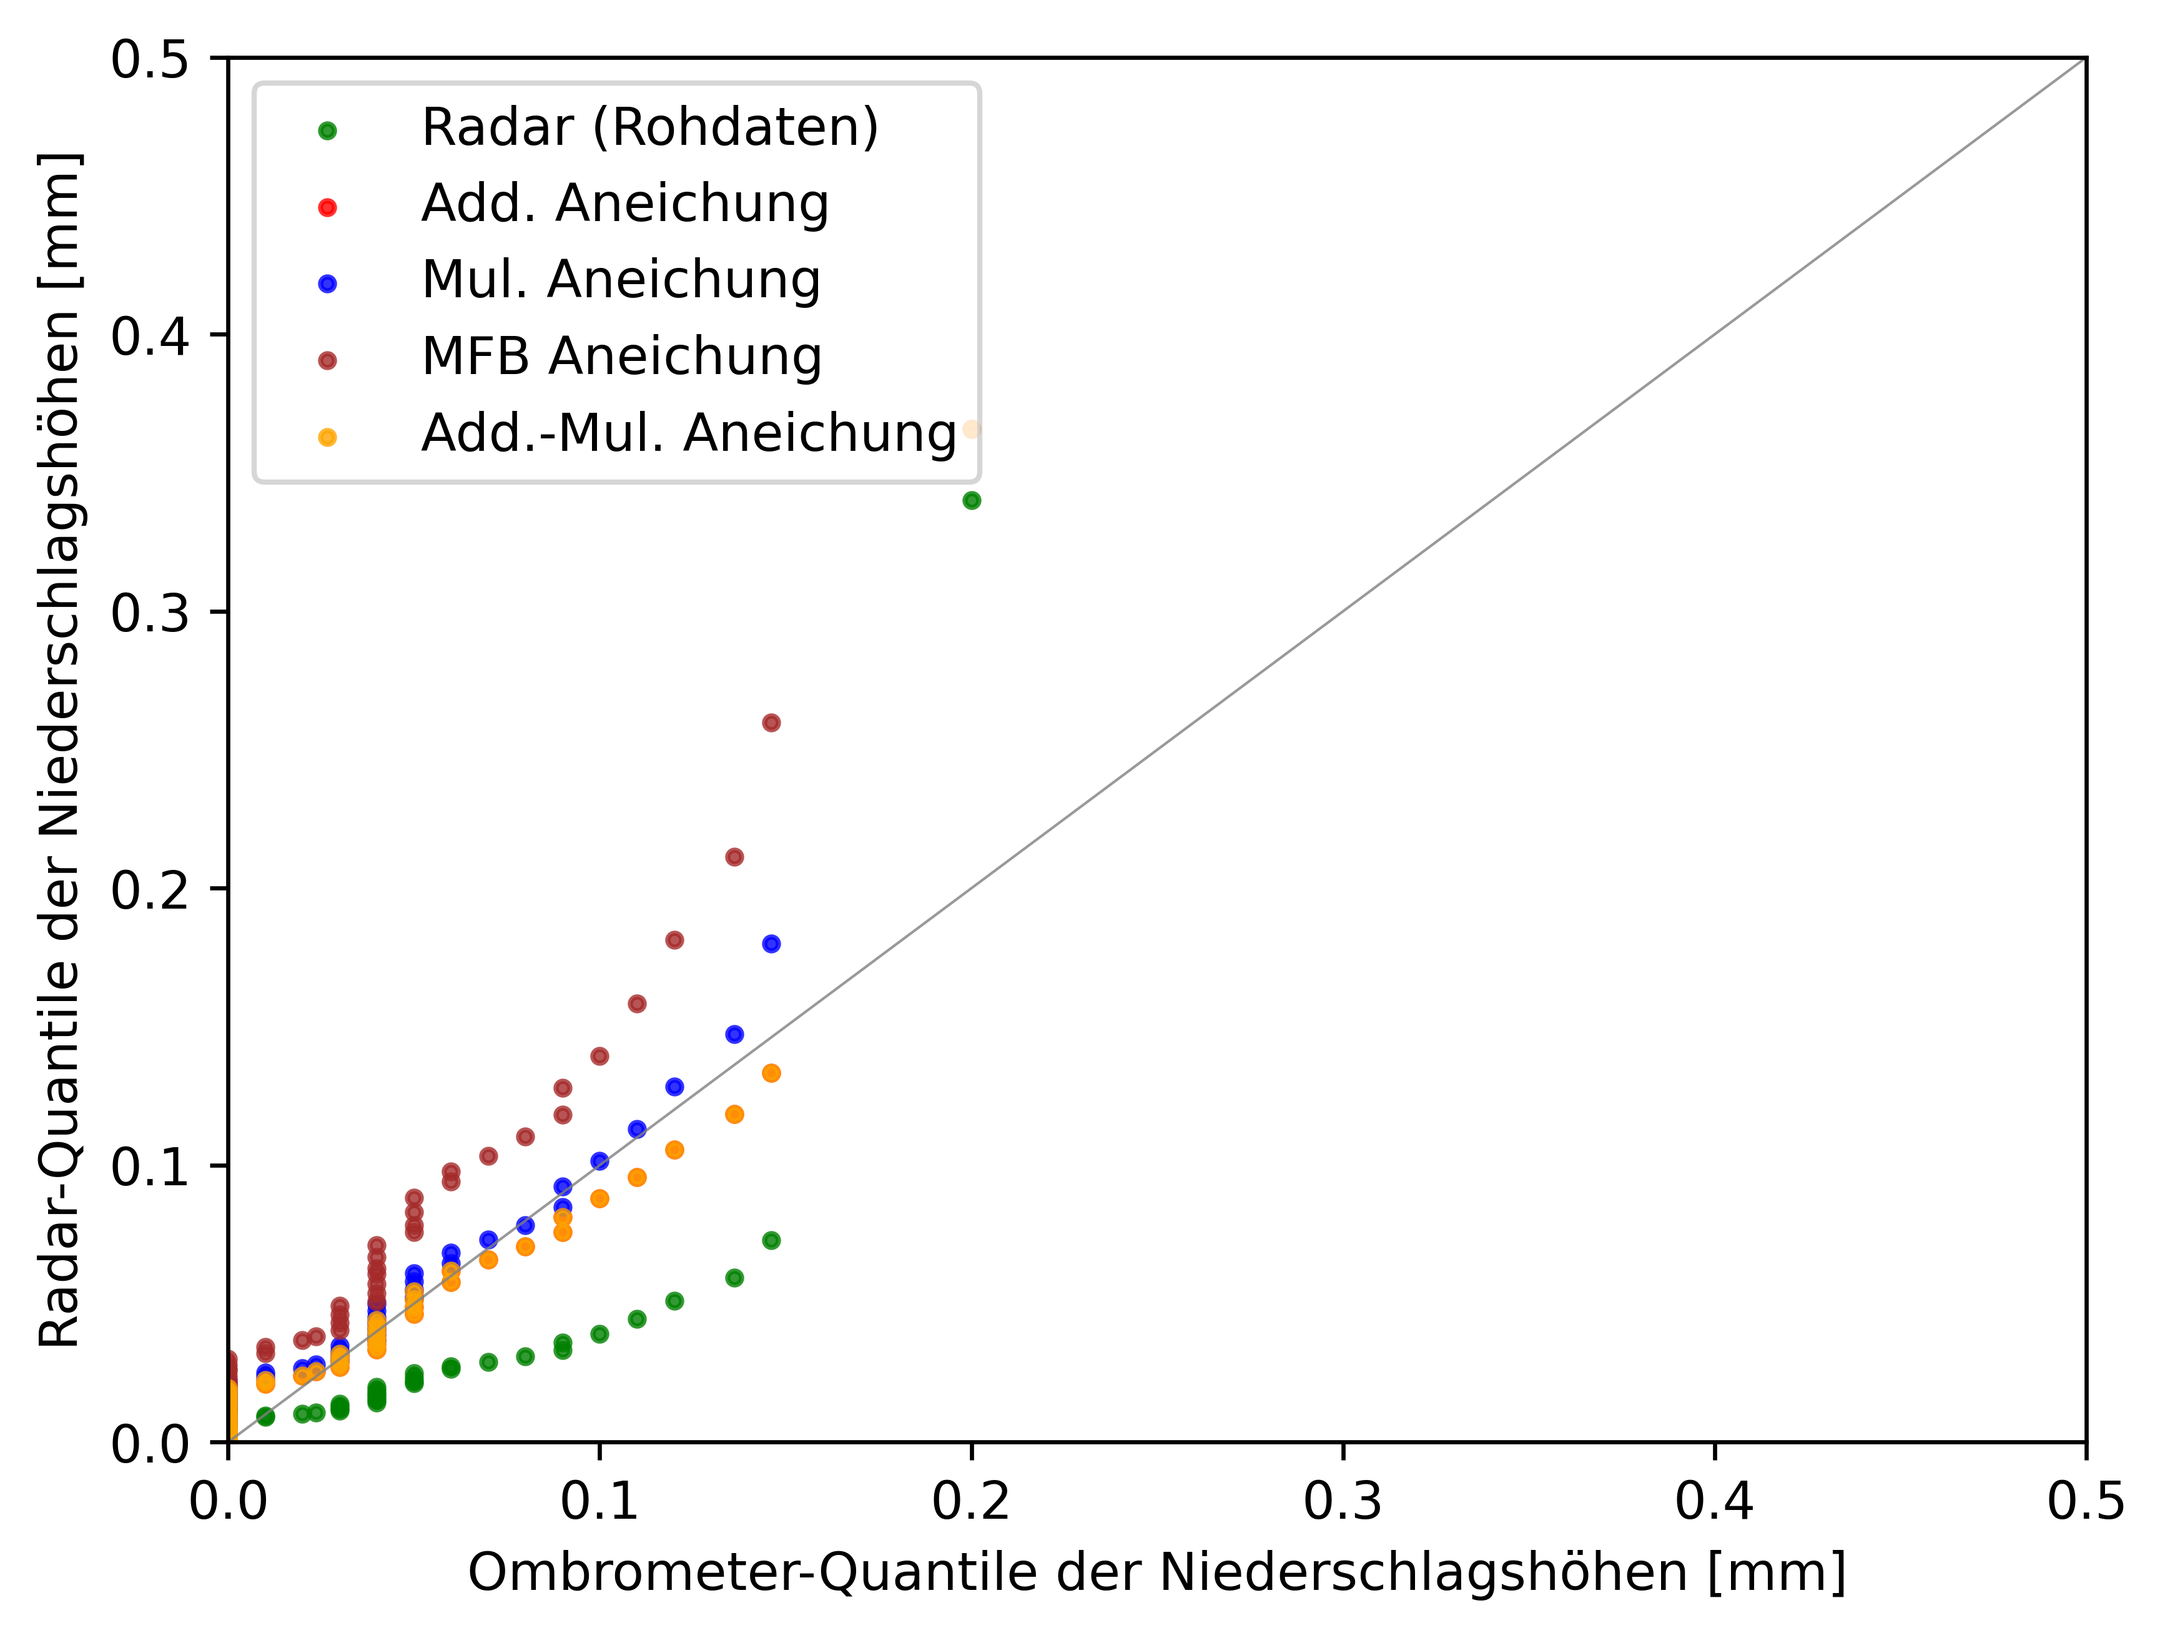
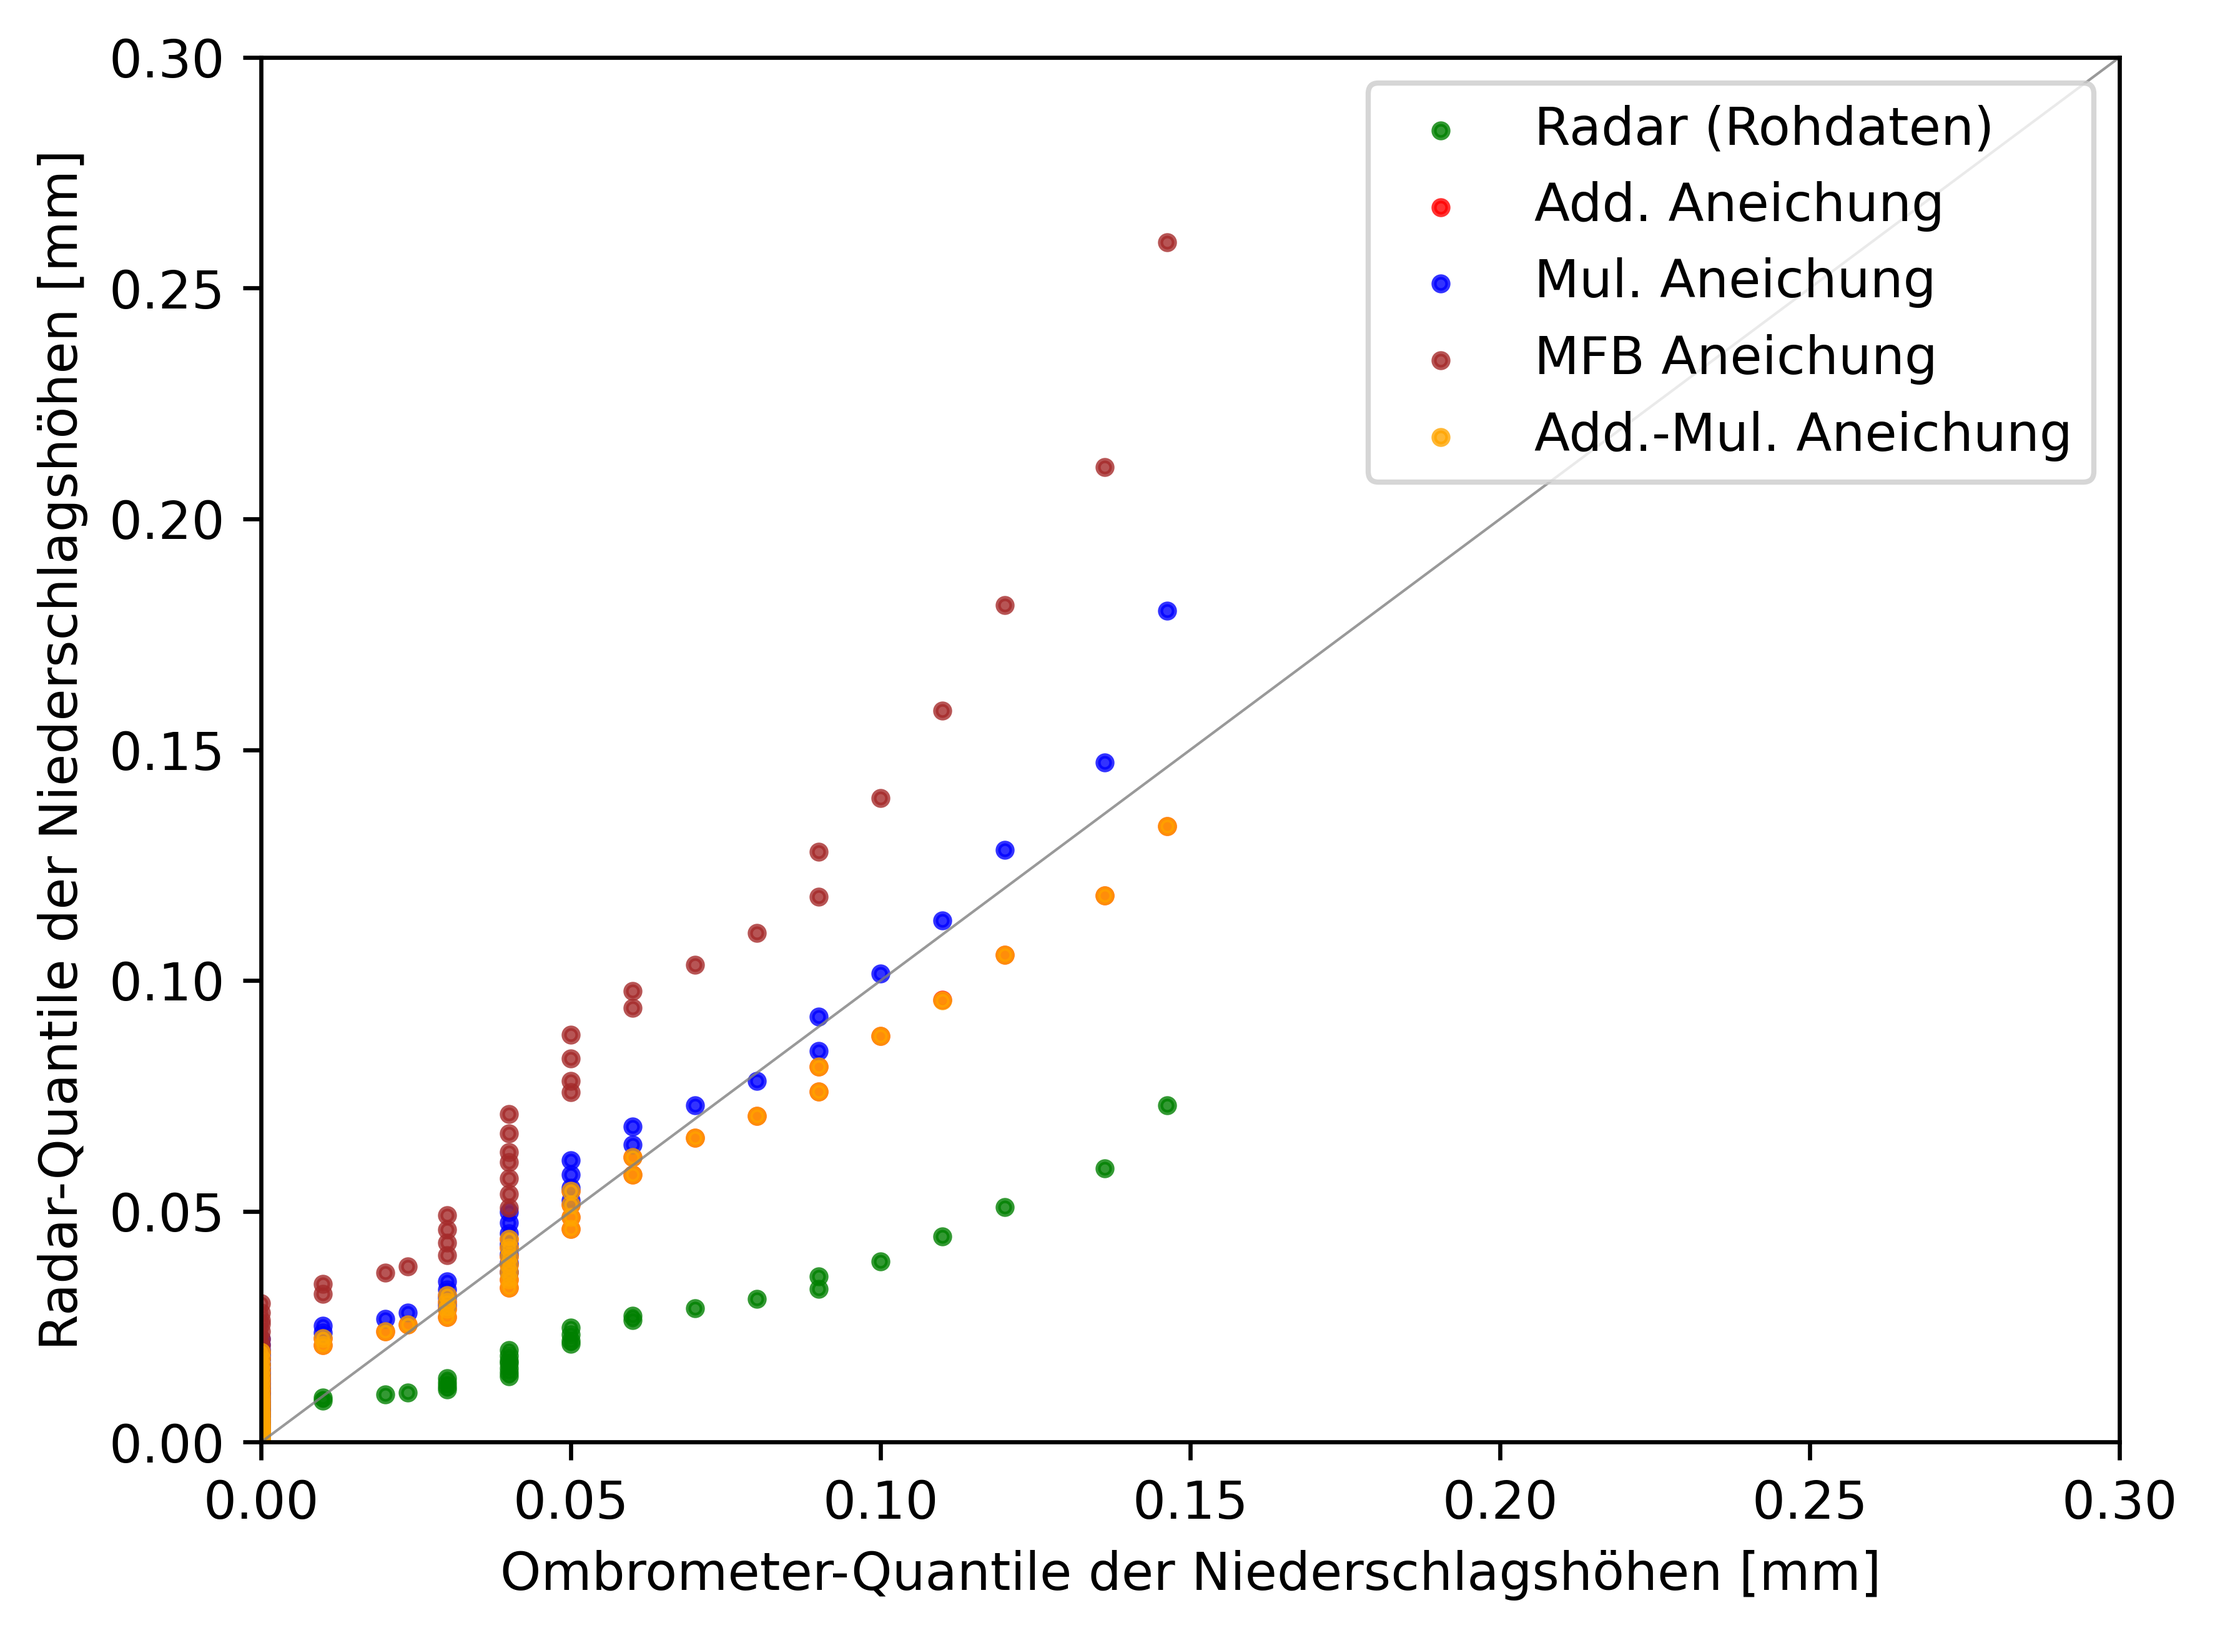
Change ylim at 5min qq plot.

diff --git a/code/PlotComposite.py b/code/PlotComposite.py
@@ -229,12 +229,12 @@ plt.scatter(q_gau, q_mul, label="Mul. Aneichung", s=7, marker='o', alpha=0.8, c=
 plt.scatter(q_gau, q_mulcon, label="MFB Aneichung", s=7, marker='o', alpha=0.8, c="brown")
 plt.scatter(q_gau, q_mix, label="Add.-Mul. Aneichung", s=7, marker='o', alpha=0.8, c="orange")
 if minutes == 5:
-    plt.xlim([0,0.5])
-    plt.ylim([0,0.5])
+    plt.xlim([0,0.3])
+    plt.ylim([0,0.3])
 if minutes == 60:    
     plt.xlim([0,1.5])
     plt.ylim([0,2.5])
 plt.xlabel("Ombrometer-Quantile der Niederschlagshöhen [mm]")
 plt.ylabel("Radar-Quantile der Niederschlagshöhen [mm]")
-plt.legend(loc="upper left")
+plt.legend(loc="upper right")
 plt.savefig(f"images/eval/qq_{minutes}min", dpi=600, bbox_inches='tight', transparent=False)
